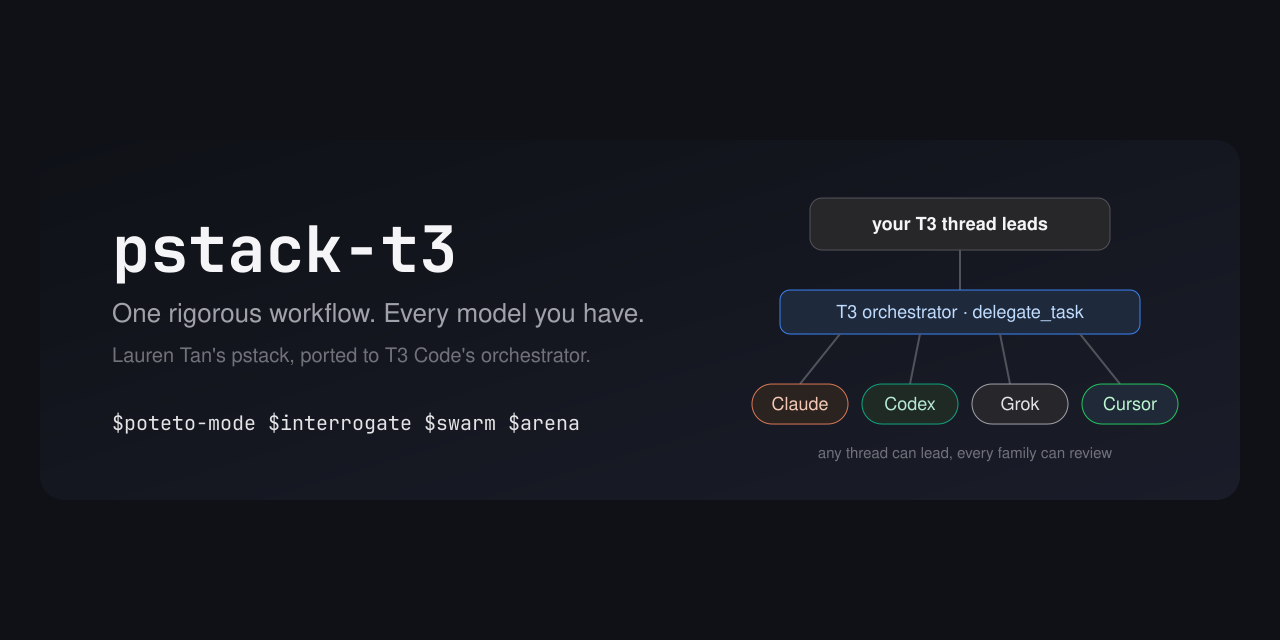
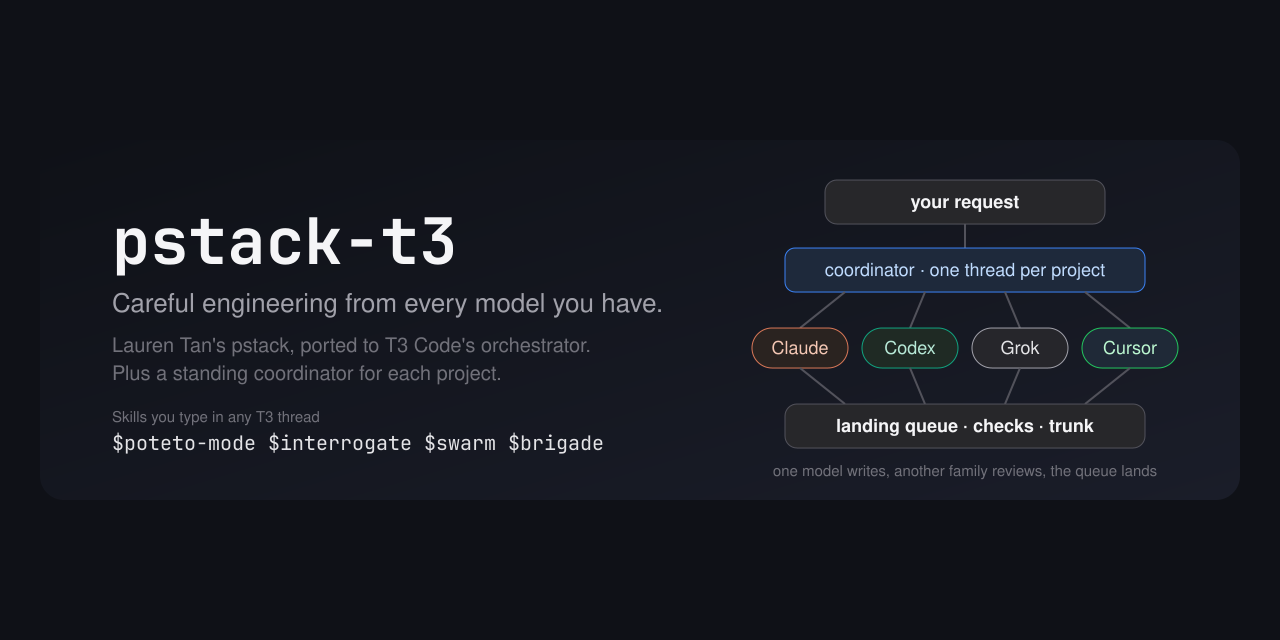
docs: introduce pstack and the standing coordinator at the top of the README (#50)
The top of the README now introduces pstack-t3, Lauren Tan's pstack
workflows, and the new standing coordinator well enough that a visitor
gets it in under a minute.

## What changed

- **Opening.** A one-line tagline, then five short paragraphs with bold
lead-ins:
  - whose workflows these are and what they do
  - that any provider can lead on T3 Code
  - what `$brigade` does
  - that it has run unattended
  - how to try it
- **A standing coordinator for each project.** A rewritten section with
a diagram of one request's path and the four steps (intake, build,
review, land). It also covers the landing queue and its four modes, and
the three reporting levels in the coordinator's own terms.
- **See it in action.** The live Autopilot run leads, with its table
from `docs/live-runs.md`.
- A few sentences further down now name `$brigade`, `$landing`, and
`pstack-author-skill` as pstack-t3's own skills.
- The banner and social preview show the coordinator path.

## How it was verified

- A reviewer from another model family checked every claim in the
README, the About text, and the release notes against the skills,
scripts, docs, and git history, over two rounds. Round one corrected:
  - the `digest` wording
  - the intake sources
  - two About clauses
  - three release-note sentences
- A cold reader on another model family read the opening once and
answered what it is, why to install it, and how the parts fit.
[…]

Changed region(s): [[0.5938, 0.2812, 0.9062, 0.75], [0.0625, 0.3438, 0.5312, 0.5938], [0.0938, 0.625, 0.4688, 0.7188]]

diff --git a/README.md b/README.md
@@ -1,5 +1,5 @@
 <p align="center">
-  <img src="docs/assets/banner.svg" alt="pstack-t3: one rigorous workflow, every model you have" width="100%">
+  <img src="docs/assets/banner.svg" alt="pstack-t3: careful engineering from every model you have, and a standing coordinator for each project" width="100%">
 </p>
 
 <p align="center">
@@ -14,45 +14,94 @@
   <a href="docs/guide.md">Guide</a> ·
   <a href="docs/skills.md">All skills</a> ·
   <a href="docs/how-it-works.md">How it works</a> ·
+  <a href="docs/live-runs.md">Live runs</a> ·
   <a href="#faq">FAQ</a>
 </p>
 
-**pstack-t3 turns a T3 Code thread into a careful engineering team that runs on every model you have.**
+**pstack-t3 makes any model in T3 Code do careful engineering, and gives each project a standing coordinator that turns your requests into reviewed, landed changes.**
 
-It's [Lauren Tan's pstack](https://github.com/cursor/plugins/tree/main/pstack), ported from Cursor to [T3 Code](https://t3.codes). Lauren built pstack around one idea: AI writes too much slop, and the fix is depth, not speed. pstack makes an agent reproduce a bug before fixing it, settle the design before writing code, prove the change works before calling it done, and send its diff to other models to break it. pstack-t3 runs those workflows on T3's orchestrator, so a Claude, Codex, Grok, or Cursor thread can lead, and review fans out across them.
+**The workflows are [Lauren Tan's pstack](https://github.com/cursor/plugins/tree/main/pstack), ported from Cursor to [T3 Code](https://t3.codes).** Lauren's premise is that AI writes too much slop and the fix is depth, not speed. A pstack agent reproduces a bug before fixing it, settles the design before writing code, proves the change works, and sends its diff to other models to break.
 
-## A standing coordinator
+**Any provider can lead.** A Claude, Codex, Grok, or Cursor thread leads through T3's orchestrator and delegates work and review to the others. The skills read T3's live model catalog, so they use the models you have.
 
-`$brigade` pins one coordinator thread to a project, or to one focus area inside a project. You send it requests. It groups related requests into one unit and launches that unit in its own worktree thread. A poteto-mode playbook runs in that thread. Another model family reviews the change. The landing queue lands what passes.
+**A coordinator runs the project.** `$brigade`, pstack-t3's own addition, pins one coordinator thread to a project. You send it requests. It runs each unit of work as a pstack playbook in its own git worktree. A second model, from another family when you have one, reviews the exact commit, and one queue lands what passes. You choose who merges and how often you hear about it.
 
-The landing mode belongs to the repository. Four modes decide what reaches trunk.
+**It has run unattended.** In the [first live Autopilot run](docs/live-runs.md), Grok wrote four changes, four other model families verified each one, and all four merged, three within 30 minutes, with no question to the operator.
 
-- `merge` opens a pull request and merges it after the checks pass.
-- `human` opens the same pull request and leaves the merge to you.
-- `push` pushes trunk after the checks pass, and opens no pull request.
-- `local` lands on `refs/landing/<trunk>` and does not change the remote.
+**Try it.** Get a [T3 Code nightly](https://github.com/pingdotgg/t3code/releases). The [Quick start](#quick-start) lists the other prerequisites and the two-command install.
 
-You pick a reporting level when you open the coordinator. `every-turn` sends a short reply after every wake. `milestones` replies when work merges. It also replies when a review sends work back or blocks it, when a decision needs you, when something fails, or when the queue pauses. `digest` replies for a decision or a failure. It sends one summary when nothing is left in progress, in review, passed review, or waiting to land. The [guide](docs/guide.md#8-open-a-standing-coordinator) describes each level and how to change it.
-
-```
-$brigade open a standing coordinator for bridgekit focused on startup performance.
-```
-
-## What it does
+## What the workflows do
 
 - **Picks the right workflow for your request.** `$poteto-mode` matches your task to one of 23 playbooks, such as bug fix, feature, refactor, perf, investigation, ship a PR stack, or run overnight. It follows the playbook's steps in a visible todo list.
 - **Makes different models check each other's work.** `$interrogate` sends your diff to reviewers on different model families at once. You get one verdict, with claims the lead has verified and agreement mapped across families.
 - **Runs work in parallel without collisions.** `$swarm` splits work across workers or races them. `$arena` runs several attempts and grafts the best parts into one. Workers that write get their own git worktree.
 - **Proves the change works.** It reproduces bugs on the real surface, including driving a web UI through T3's preview tools, and verifies against the real artifact rather than "it compiles".
-- **Gives each project its own standing coordinator.** `$brigade` opens one pinned thread per project or focus area, the way Lauren runs one coordinator per area. You move between them and review what landed.
-- **Lets many agents write to one repo at once.** `$landing` gives each repository one trunk, path leases claimed before work starts, and a single queue that rebases, checks, and lands reviewed commits. Writers never merge. Builds and tests share a machine-wide slot limit.
 - **Keeps going while you're away.** Overnight runs use child agents, separate worktree threads, and an hourly scheduled check. It still stops for anything irreversible you didn't authorize.
 - **Uses only models you have.** Every role resolves against T3's live model list. Signed-out providers and retired models fall back, and the report says so.
 - **Writes like a senior engineer.** Short, direct replies, every claim labeled measured, inferred, or guess, and the engineering principles behind each decision named.
 
+## A standing coordinator for each project
+
+`$poteto-mode` drives one task. `$brigade` keeps a whole project moving. It pins one coordinator thread to a project, or to one focus area inside a project, the way Lauren runs one coordinator per area. That thread holds the project's purpose and never writes code. You send it requests in plain language. Each request takes this path.
+
+```mermaid
+flowchart LR
+    you["You<br/>a request"] --> coord["Coordinator<br/>one pinned thread"]
+    coord --> worker["Worker thread<br/>own worktree,<br/>a pstack playbook"]
+    worker --> review["Reviewer<br/>another model family"]
+    review -->|passes| queue["Landing queue<br/>rebase, checks, trunk"]
+    review -->|sent back to a fresh worker| worker
+```
+
+1. **Intake.** The coordinator records the request and groups related requests into one unit of work. When the project's purpose names a source of work, intake also runs on a schedule. The coordinator reads the repository's open issues and pull requests only when the project's standing orders name them.
+2. **Build.** It claims a lease on the paths the unit will change, then launches a worker thread in its own git worktree. The worker runs the matching poteto-mode playbook, such as bug fix, feature, or perf issue, and reports back.
+3. **Review.** The coordinator reads the report and the diff itself. Then a reviewer from another model family checks that exact commit. The reviewer asks whether the change works on the real surface, and whether it serves the project's purpose without scope the request did not ask for. When no other family can run, the reviewer shares the author's family and the verdict says so. Work that the review sends back goes to a fresh worker.
+4. **Land.** A change that passes goes to the landing queue. The queue rebases it onto trunk, runs your checks in a clean worktree, and lands it. If the rebased change differs from the reviewed one, the queue refuses it.
+
+**Only the queue writes trunk.** Trunk is the branch every change lands on. Workers commit in their own worktrees and never merge, rebase a shared branch, or push trunk. A lease on the paths a change will touch refuses overlapping work before it starts, and builds and tests share a machine-wide slot limit. That is how many agents work in one repository on one machine. The queue is its own skill, `$landing`, and any coordinator can use it.
+
+**You choose who merges.** The landing mode belongs to the repository. Four modes decide what reaches trunk.
+
+- `merge` opens a pull request and merges it after the checks pass. You review what landed. A pull request that requires an approving review pauses the queue until you relax that rule or switch to `human`.
+- `human` opens the same pull request and leaves the merge to you.
+- `push` pushes trunk after the checks pass, only while the remote is still at the tested base. It opens no pull request.
+- `local` lands on `refs/landing/<trunk>` and does not change the remote.
+
+**You choose how often it reports.** The coordinator wakes on your messages, a worker's report, a finished review, a pull request event, and its schedules. The reporting level you pick when you open it decides which wakes get a reply.
+
+- `every-turn` sends a short reply after every wake.
+- `milestones` replies when work merges, a review sends work back or blocks it, a decision needs you, something fails or the queue pauses, or you send a message. A routine wake ends with no reply, or with one line when the host requires text.
+- `digest` replies only for a decision you must make, a failure or a paused queue the coordinator cannot fix itself, one summary when a batch drains, the 18:00 report, and a message from you. Every other wake ends with no reply text at all. A batch has drained when nothing is in progress, in review, passed review, or waiting to land. A `digest` message is a few plain sentences on what got done, what comes next, and what you must decide.
+
+Every level sends the 18:00 report. A message from you gets at least one line, and a direct question gets an answer. A decision only you can make is raised once, with its options and a default, and other work continues around it. The [guide](docs/guide.md#reporting-levels) describes each level and how to change it.
+
+```
+$brigade open a standing coordinator for bridgekit focused on startup performance.
+```
+
+Open one coordinator per project or focus area. Several can share one repository, because the queue and its leases keep them apart. `brigade.py walk` lists every coordinator on the machine with its counts and open decisions.
+
+The coordinator and the queue have both run on real work.
+
+- **A pilot.** One coordinator on Claude Opus ran five units of work in 4.5 hours. Four merged as pull requests, and one was dropped because no change beat the noise. Grok wrote every change. Codex and Claude reviewed them, and two of six reviews sent work back for real bugs. The [pilot audit](docs/brigade-plan.md#pilot-bridgekit-performance-2026-10-04) lists what went wrong and what changed.
+- **This repository.** 38 of the 39 pull requests from #8 to #46 landed through the same queue. Each of the 38 names the reviewer and the commit that reviewer checked.
+
 ## See it in action
 
-Both of these are real runs in T3 Code, against a small repository with a planted bug that its own tests passed. Replies are excerpted and trimmed. They predate the current defaults. The default `$interrogate` panel is Claude Opus and Grok.
+These are real runs in T3 Code.
+
+**A Claude Opus thread took a queue of four issues, and the operator answered no question.** The Autopilot playbook launched one owner per issue, each on Grok in its own worktree. For every round, four verifiers on GPT, Claude, Gemini, and Composer checked the reported commit.
+
+| Issue | Review rounds | Merged, minutes from launch |
+| --- | --- | --- |
+| Fix `median` for even-length input | 1 | 13 |
+| Raise a clear error from `mode` on empty input | 1 | 16 |
+| Add `variance` and `stdev` | 3 | 30 |
+| Add a `python -m stats` command line | 5 | 109 |
+
+The verifiers caught real defects before merge. Three verifiers on three models each found that `variance` raised `TypeError` on a generator. One round later only the Claude Opus verifier found that the fix relabelled errors raised by the caller's own generator. The Gemini verifier had passed that commit. The run also exposed four defects in pstack-t3's own skills. Pull requests #42, #44, #45, and #46 fixed them after the run. The [full record](docs/live-runs.md) lists every round, and describes each defect as the run found it.
+
+The next two runs are against a small repository with a planted bug that its own tests passed. Replies are excerpted and trimmed. They predate the current defaults. The default `$interrogate` panel is Claude Opus and Grok.
 
 **A Codex thread ran a four-family review.**
 
@@ -127,7 +176,7 @@ The [guide](docs/guide.md) walks through your first hour. Stuck, or unsure which
 | `$poteto-mode i'm going to bed. land the stack. everything merged by morning.` | An autonomous run with a decision log. It waits on each pull request with `watch_pull_request`, uses `schedule_task` as the merge heartbeat, and verifies each pull request before merge. |
 | `$recall where did I leave off on the billing migration?` | A current-state brief rebuilt from your past T3 threads, git, and PRs. |
 | `$correct` | A census of the mistakes agents repeat here, each fixed at the highest level that holds, from architecture through types, lint, and tests, plus a rule table. |
-| `$brigade open a standing coordinator for bridgekit focused on startup performance.` | A pinned thread that owns that goal. It groups incoming requests, hands each to a pstack playbook, has another model family review every result against the goal, and reports what landed. |
+| `$brigade open a standing coordinator for bridgekit focused on startup performance.` | A pinned thread that owns that goal. It groups incoming requests, hands each to a pstack playbook, has a reviewer, from another model family when one can run, check every result against the goal, and reports what landed. |
 | `$landing set up this repo so several agents can land work at once.` | A landing contract with your test commands as checks. Every coordinator then claims leases before delegating and lands through one queue. |
 | `$poteto-help which skill should I use to review this branch?` | It points at the skill or playbook and hands you a prompt. It does not start the work. |
 
@@ -146,7 +195,7 @@ flowchart LR
 
 The default panel is Claude Opus and Grok. A roles file can name Codex or another model. `verifiers` is this thread's model plus one seat per other model family you can run.
 
-T3 Code gives every provider the same orchestration tools: `delegate_task` for child agents, `t3_thread_launch` for worktree threads, `schedule_task` for a cadence, `watch_pull_request` for a pull request's checks, reviews, or conflicts, thread history, browser preview, and PR linking. The [`pstack-runtime`](t3/runtime.md) skill teaches each model to use them the pstack way. The other skills are Lauren's workflows, with the Cursor-specific mechanics replaced. Details are in [How it works](docs/how-it-works.md).
+T3 Code gives every provider the same orchestration tools. They are `delegate_task` for child agents, `t3_thread_launch` for worktree threads, `schedule_task` for a cadence, `watch_pull_request` for a pull request's checks, reviews, or conflicts, thread history, browser preview, and PR linking. The [`pstack-runtime`](t3/runtime.md) skill teaches each model to use them the pstack way. The other skills are Lauren's workflows, with the Cursor-specific mechanics replaced. pstack-t3 adds three of its own, `brigade`, `landing`, and `pstack-author-skill`. Details are in [How it works](docs/how-it-works.md).
 
 **Why skills, not an MCP server or a plugin?** T3 already gives every provider its orchestration server, so pstack-t3 needs no server of its own. T3's `$` picker lists each provider's native skills, which is why `$poteto-mode` appears whichever model you pick. A Claude Code plugin would namespace the skills and hide them from that picker, and the other providers have no plugin format.
 
@@ -161,7 +210,7 @@ No. Everything works with one provider. The default arena, architect, and interr
 <details>
 <summary><b>How is this different from pstack?</b></summary>
 
-The engineering content is the same: the playbooks, principles, rubrics, and their wording. The plumbing is different. Upstream uses Cursor's subagents, cloud agents, `/loop`, and a fixed list of Cursor model names. pstack-t3 uses T3's `delegate_task`, worktree threads, `schedule_task`, and roles resolved against T3's live model list. The full mapping is under [What changed from upstream](#what-changed-from-upstream).
+The playbooks, principles, rubrics, and their wording are the same. The plumbing is different. Upstream uses Cursor's subagents, cloud agents, `/loop`, and a fixed list of Cursor model names. pstack-t3 uses T3's `delegate_task`, worktree threads, `schedule_task`, and roles resolved against T3's live model list. pstack-t3 also adds `$brigade`, `$landing`, and `pstack-author-skill`, which upstream does not have. The full mapping is under [What changed from upstream](#what-changed-from-upstream).
 </details>
 
 <details>
@@ -251,6 +300,6 @@ python3 -m unittest discover -s tests -v
 
 ## Credits and license
 
-pstack is by [Lauren Tan (poteto)](https://x.com/poteto), who built it from her work on React and at Meta, Netflix, and Cursor. The skills, playbooks, principles, and their wording are hers. pstack-t3 changes how they reach models, not what they ask of them.
+pstack is by [Lauren Tan (poteto)](https://x.com/poteto), who built it from her work on React and at Meta, Netflix, and Cursor. The skills, playbooks, principles, and their wording are hers. pstack-t3 changes how they reach models, not what they ask of them. `$brigade`, `$landing`, and `pstack-author-skill` are pstack-t3's own. `$brigade` copies the setup Lauren runs, with one coordinator per area that delegates and never does the work itself.
 
 MIT licensed. See [LICENSE](LICENSE). The upstream license is preserved in [`vendor/pstack/LICENSE`](vendor/pstack/LICENSE).
